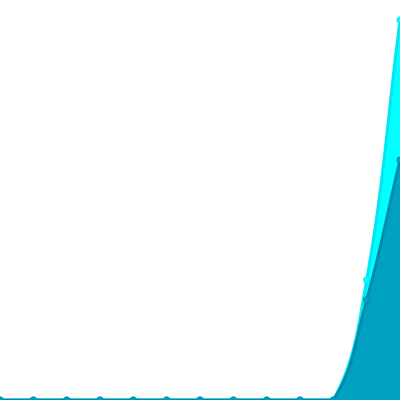
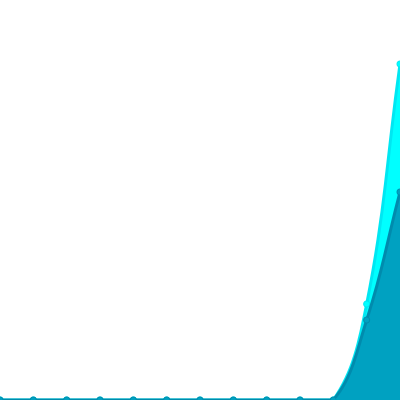
Update views

Changed region(s): [[0.84, 0.03, 1.0, 0.99]]

diff --git a/readme/262135613/year.md b/readme/262135613/year.md
@@ -23,10 +23,10 @@
 			<code>2022/4/1</code>
 		</td>
 		<td>
-			<code>12</code>
+			<code>13</code>
 		</td>
 		<td>
-			<code>19</code>
+			<code>21</code>
 		</td>
 	</tr>
 	<tr>
@@ -164,7 +164,7 @@
 </table>
 
 </details>
-<small><i>Last updated on 2022/4/20 6:14 AM UTC</i></small>
+<small><i>Last updated on 2022/4/20 12:18 PM UTC</i></small>
 
 ## ✂Copy and 📋 Paste
 ### SVG Badge

diff --git a/README.md b/README.md
@@ -885,7 +885,7 @@ The project created and maintained by [gayanvoice](https://github.com/gayanvoice
 	</tr>
 </table>
 
-<small><i>Last updated on 2022/4/20 6:16 AM UTC</i></small>
+<small><i>Last updated on 2022/4/20 12:20 PM UTC</i></small>
 
 ## ✂Copy and 📋 Paste
 ### Total Views Badge

diff --git a/readme/252348187/year.md b/readme/252348187/year.md
@@ -164,7 +164,7 @@
 </table>
 
 </details>
-<small><i>Last updated on 2022/4/20 6:15 AM UTC</i></small>
+<small><i>Last updated on 2022/4/20 12:19 PM UTC</i></small>
 
 ## ✂Copy and 📋 Paste
 ### SVG Badge

diff --git a/readme/256079566/year.md b/readme/256079566/year.md
@@ -164,7 +164,7 @@
 </table>
 
 </details>
-<small><i>Last updated on 2022/4/20 6:15 AM UTC</i></small>
+<small><i>Last updated on 2022/4/20 12:19 PM UTC</i></small>
 
 ## ✂Copy and 📋 Paste
 ### SVG Badge

diff --git a/readme/281743425/year.md b/readme/281743425/year.md
@@ -164,7 +164,7 @@
 </table>
 
 </details>
-<small><i>Last updated on 2022/4/20 6:13 AM UTC</i></small>
+<small><i>Last updated on 2022/4/20 12:17 PM UTC</i></small>
 
 ## ✂Copy and 📋 Paste
 ### SVG Badge

diff --git a/readme/300094398/year.md b/readme/300094398/year.md
@@ -164,7 +164,7 @@
 </table>
 
 </details>
-<small><i>Last updated on 2022/4/20 6:15 AM UTC</i></small>
+<small><i>Last updated on 2022/4/20 12:19 PM UTC</i></small>
 
 ## ✂Copy and 📋 Paste
 ### SVG Badge

diff --git a/readme/302481454/year.md b/readme/302481454/year.md
@@ -164,7 +164,7 @@
 </table>
 
 </details>
-<small><i>Last updated on 2022/4/20 6:15 AM UTC</i></small>
+<small><i>Last updated on 2022/4/20 12:19 PM UTC</i></small>
 
 ## ✂Copy and 📋 Paste
 ### SVG Badge

diff --git a/readme/308116415/year.md b/readme/308116415/year.md
@@ -164,7 +164,7 @@
 </table>
 
 </details>
-<small><i>Last updated on 2022/4/20 6:16 AM UTC</i></small>
+<small><i>Last updated on 2022/4/20 12:20 PM UTC</i></small>
 
 ## ✂Copy and 📋 Paste
 ### SVG Badge

diff --git a/readme/308687595/year.md b/readme/308687595/year.md
@@ -164,7 +164,7 @@
 </table>
 
 </details>
-<small><i>Last updated on 2022/4/20 6:12 AM UTC</i></small>
+<small><i>Last updated on 2022/4/20 12:16 PM UTC</i></small>
 
 ## ✂Copy and 📋 Paste
 ### SVG Badge

diff --git a/readme/309781038/year.md b/readme/309781038/year.md
@@ -164,7 +164,7 @@
 </table>
 
 </details>
-<small><i>Last updated on 2022/4/20 6:15 AM UTC</i></small>
+<small><i>Last updated on 2022/4/20 12:19 PM UTC</i></small>
 
 ## ✂Copy and 📋 Paste
 ### SVG Badge

diff --git a/readme/315388139/year.md b/readme/315388139/year.md
@@ -164,7 +164,7 @@
 </table>
 
 </details>
-<small><i>Last updated on 2022/4/20 6:13 AM UTC</i></small>
+<small><i>Last updated on 2022/4/20 12:16 PM UTC</i></small>
 
 ## ✂Copy and 📋 Paste
 ### SVG Badge

diff --git a/readme/322061839/year.md b/readme/322061839/year.md
@@ -164,7 +164,7 @@
 </table>
 
 </details>
-<small><i>Last updated on 2022/4/20 6:12 AM UTC</i></small>
+<small><i>Last updated on 2022/4/20 12:16 PM UTC</i></small>
 
 ## ✂Copy and 📋 Paste
 ### SVG Badge
